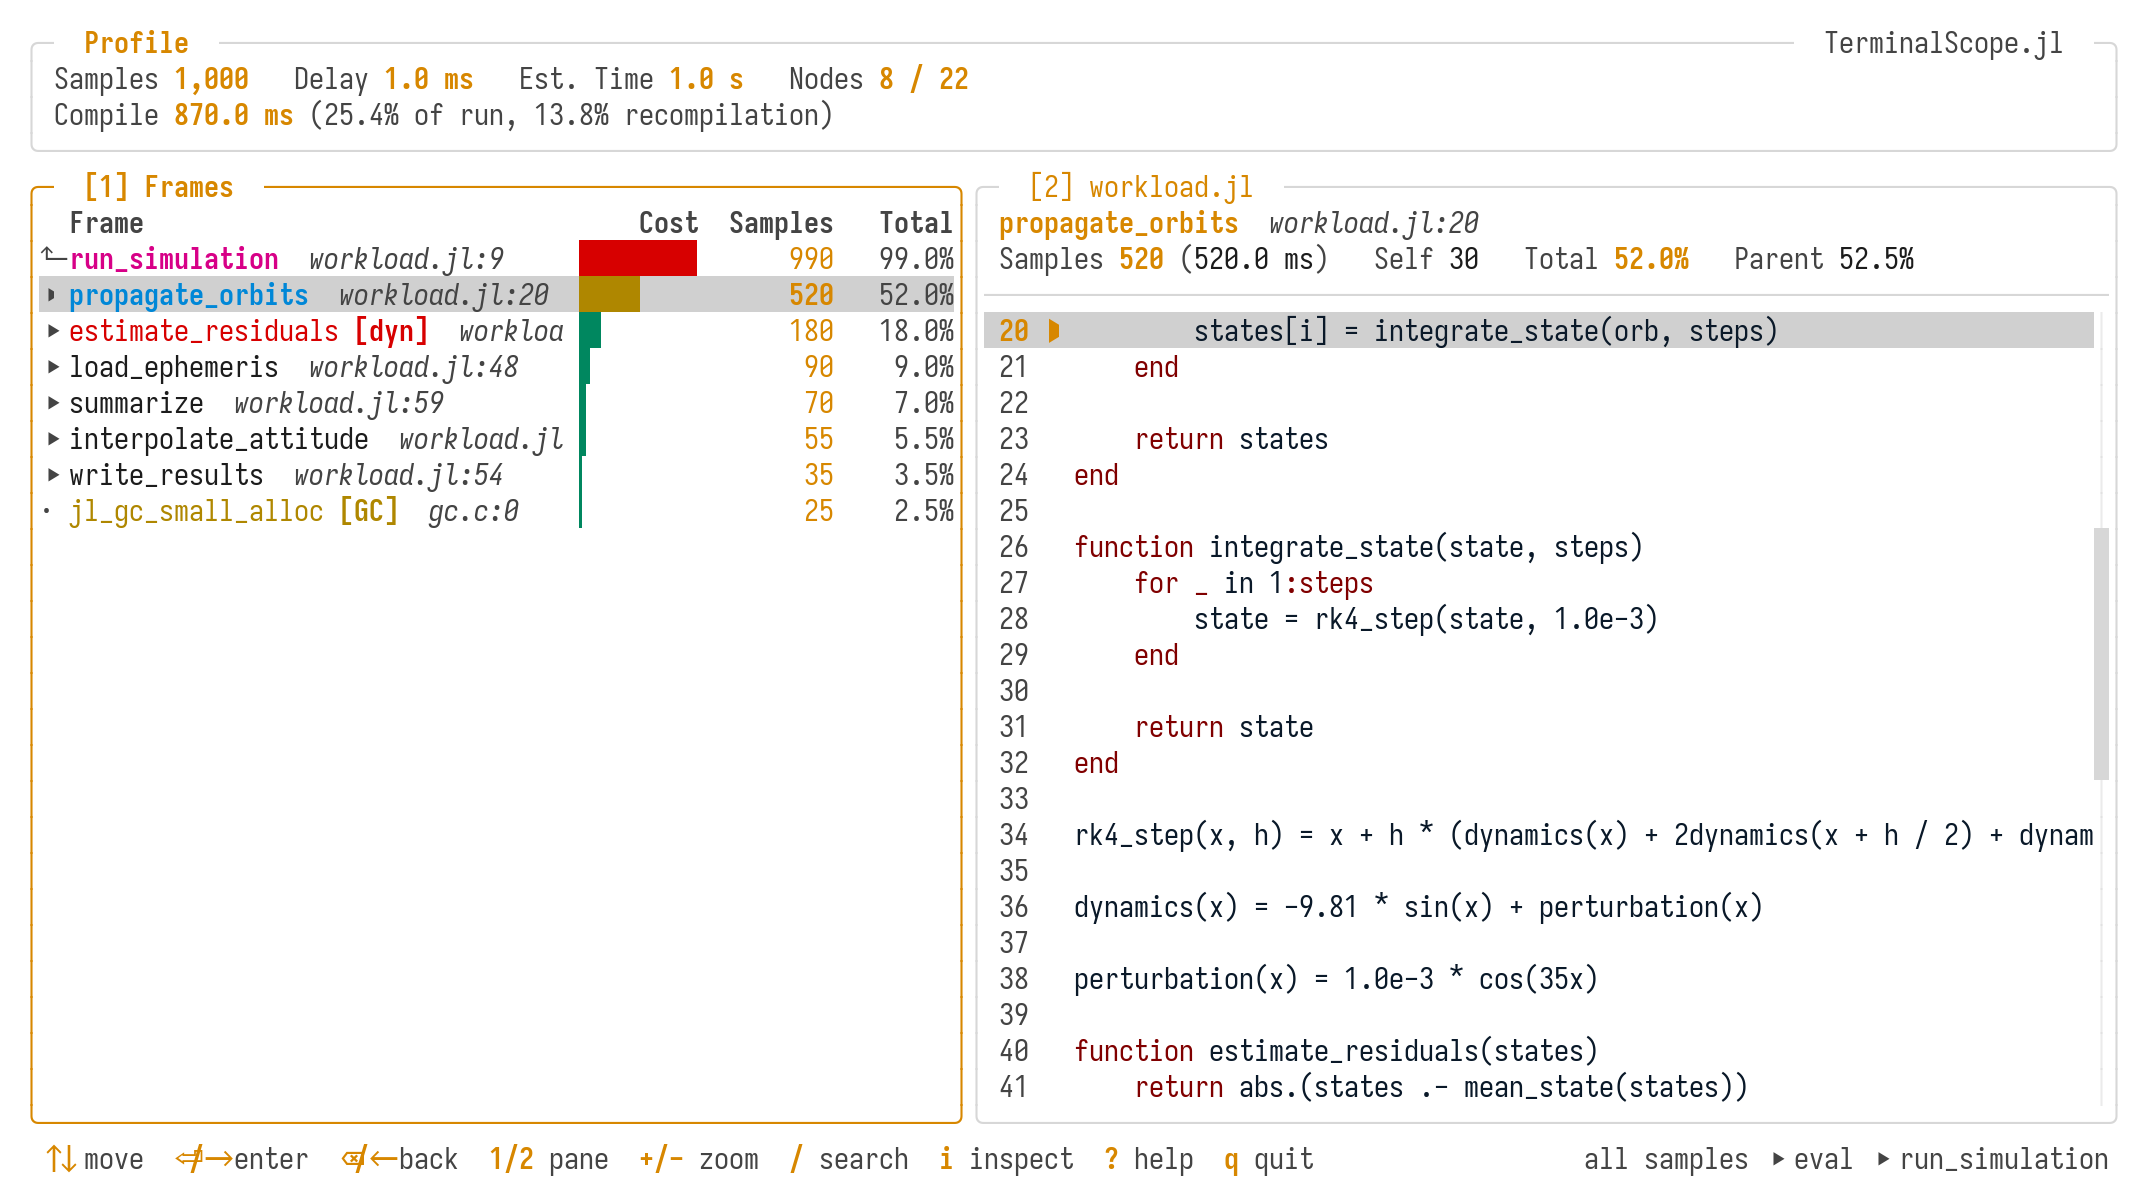
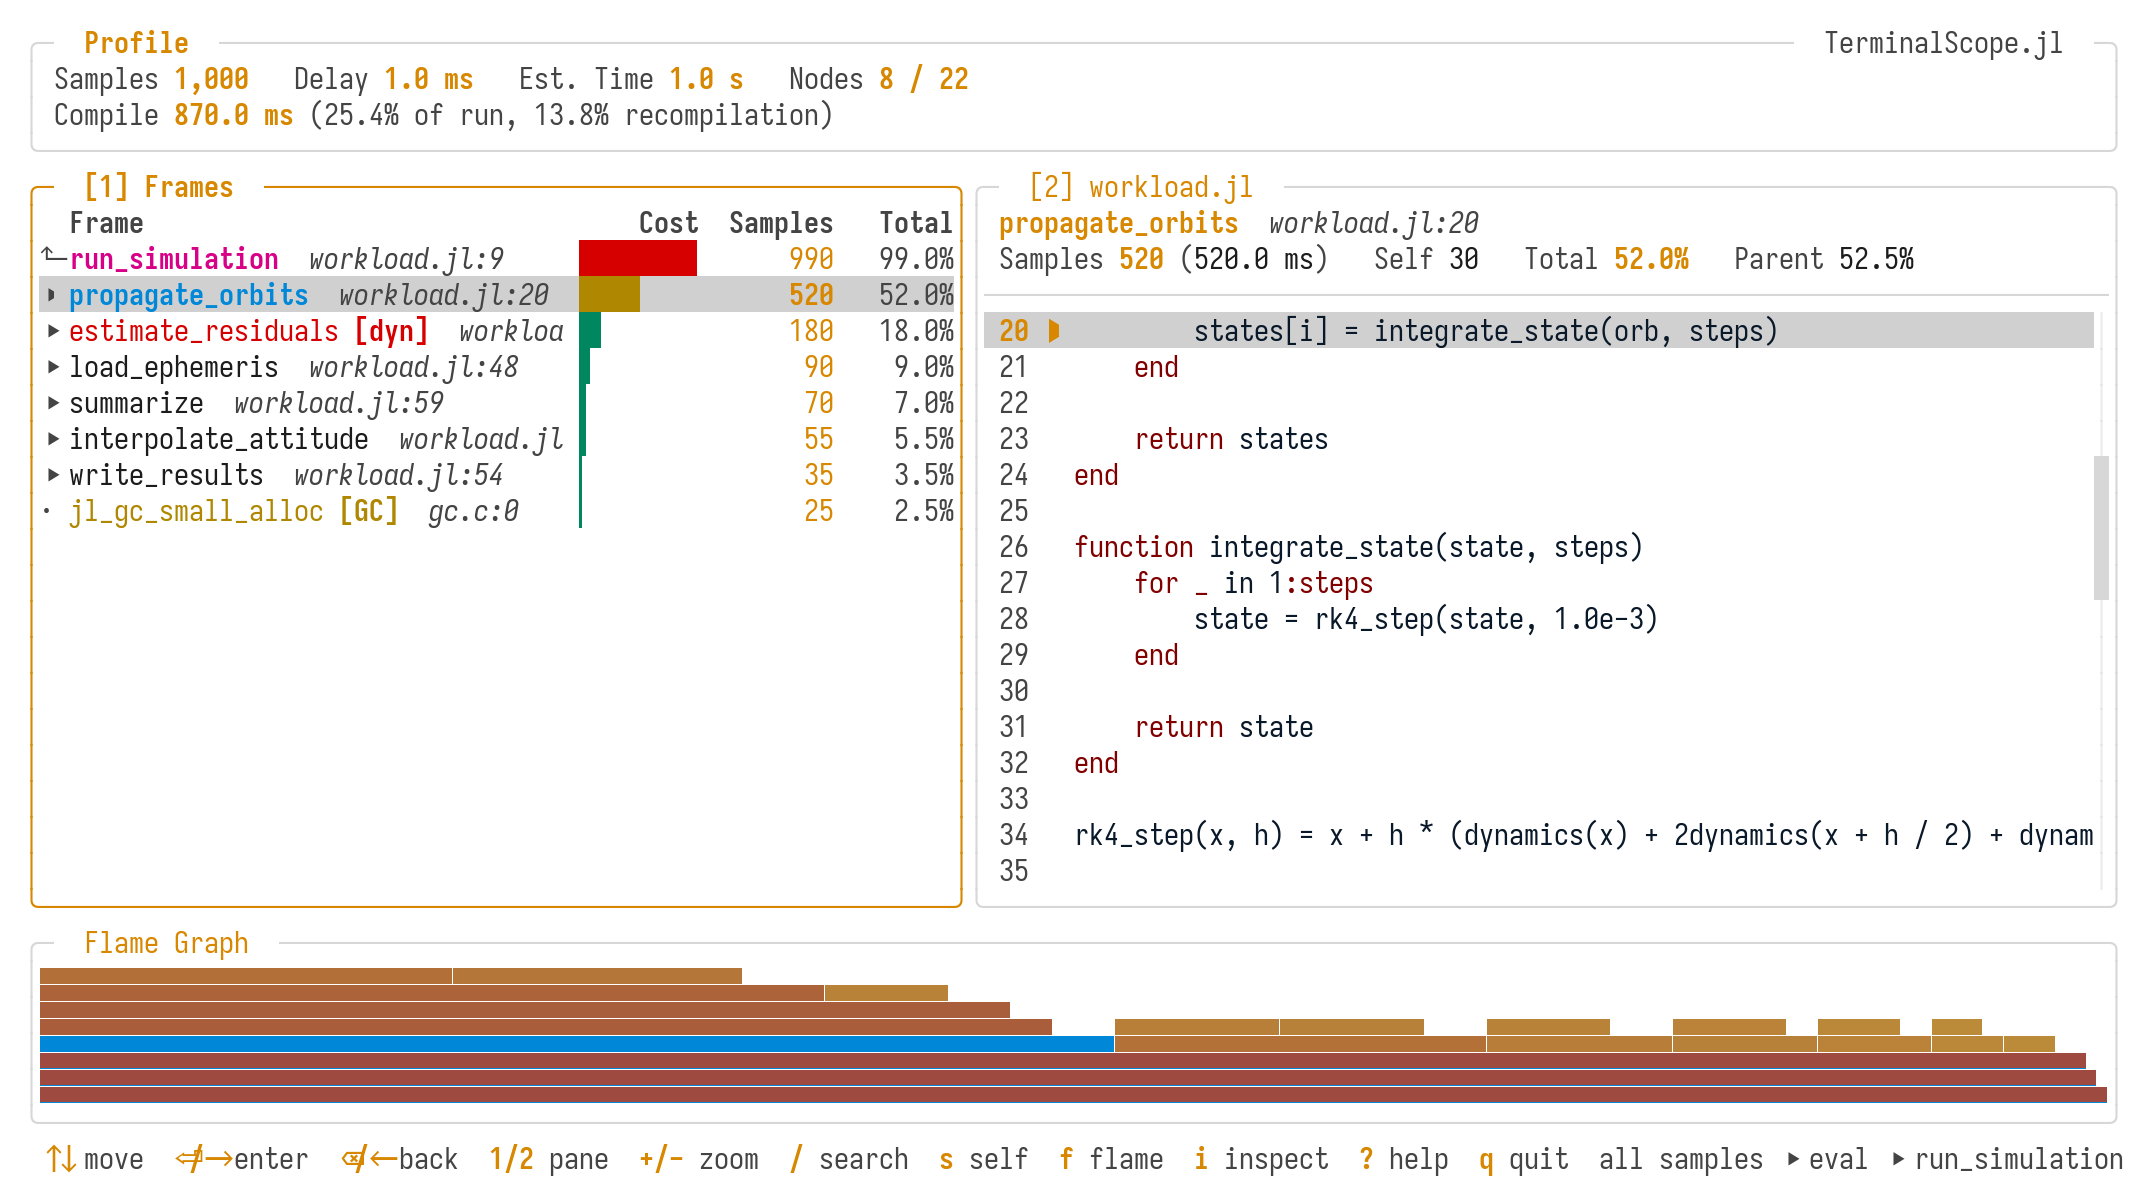
:books: Render the flame graph in the screenshots
Force the Kitty graphics protocol in the screenshot generator, size
the pixel buffers with the cell size of the rasterizer, and composite
the recorded pixel snapshots over the rasterized cells — like the
Kitty protocol draws its images over the text. Regenerate every
screenshot and add a dedicated flame-graph shot to the navigation
page.

diff --git a/docs/src/man/navigation.md b/docs/src/man/navigation.md
@@ -69,6 +69,8 @@ draw a flame graph of the **whole profile** along the bottom of the screen: the 
 the bottom, the call stacks growing upward, and each frame's width proportional to its
 inclusive cost.
 
+![Flame graph](../assets/screenshots/flame_graph.png)
+
 The colors carry the measurements and the navigation state:
 
 - Each frame is heat-colored by its share of the total cost, on a muted ramp from sand
